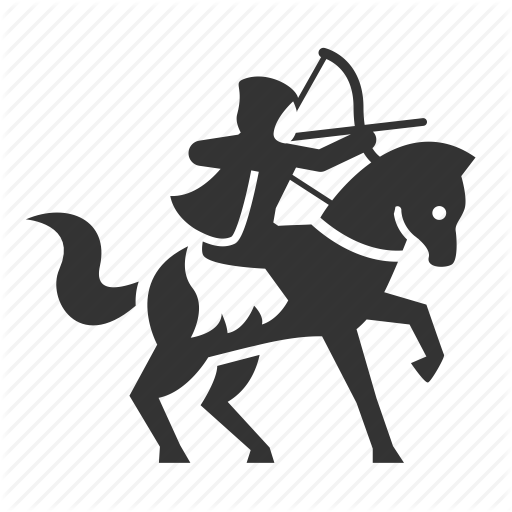
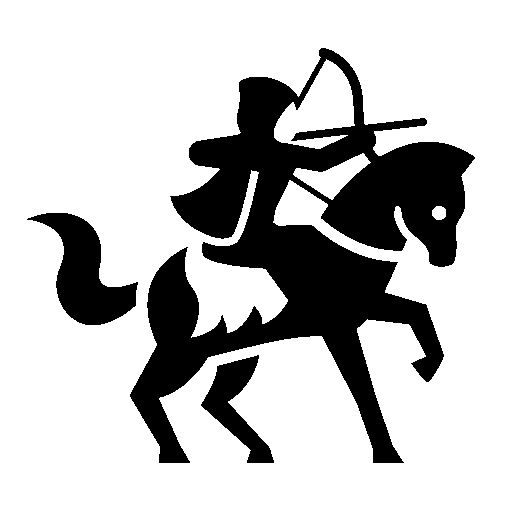
Versione 0.1.3 - Aggiunta Loading Dialog, Valutation Dialog, nuovi loghi, aggiornato ReadMe, Revisione stringhe Main.java

Changed region(s): [[0.0625, 0.0938, 0.9375, 0.9062]]

diff --git a/src/LoadingScreen.java b/src/LoadingScreen.java
@@ -2,23 +2,15 @@ import javax.swing.*;
 import java.awt.*;
 import java.awt.event.*;
 
-public class ValutationDialog extends JDialog {
+public class LoadingScreen extends JDialog {
     private JPanel contentPane;
     private JButton buttonOK;
     private JButton buttonCancel;
-    private JButton a1Button;
-    private JButton a5Button;
-    private JButton a3Button;
-    private JButton a4Button;
-    private JButton a8Button;
-    private JButton a9Button;
-    private JButton a2Button;
-    private JButton a7Button;
     public static final int WIDTH=300;
     public static final int HEIGHT=WIDTH/12*9;
     public static final int SCALE=3;
 
-    public ValutationDialog() {
+    public LoadingScreen() {
         setContentPane(contentPane);
         setModal(true);
         getRootPane().setDefaultButton(buttonOK);
@@ -59,8 +51,6 @@ public class ValutationDialog extends JDialog {
     private void onOK() {
 // add your code here
         dispose();
-        System.out.println("Show only on develop - exit");
-        System.exit(0);
     }
 
     private void onCancel() {
@@ -68,12 +58,10 @@ public class ValutationDialog extends JDialog {
         dispose();
     }
 
-
     public static void main(String[] args) {
-        ValutationDialog dialog = new ValutationDialog();
+        LoadingScreen dialog = new LoadingScreen();
         dialog.pack();
         dialog.setVisible(true);
         System.exit(0);
     }
-
 }

diff --git a/src/Main.java b/src/Main.java
@@ -38,19 +38,19 @@ public class Main {
         monitor1.pack();
         monitor1.setVisible(true);
 
+        // LANCIO DIALOG LOADING
+        LoadingScreen loading = new LoadingScreen();
+        loading.pack();
+        loading.setVisible(true);
+
         // Il Dialog Welcome lancia in cascata i dialog successivi in sequenza!
 
         // AVVIO DI UN GUI FORM
         //SampleForm myform = new SampleForm();
 
         // Avvio dell' applicazione
-        System.out.println(messages.getString("pause"));
-        Scanner alpha = new Scanner(System.in);
-        int start = alpha.nextInt();
-        if (start == 1) System.out.println(messages.getString("run"));
-        if (start < 1 ) System.out.println(messages.getString("notRun"));
 
-        // Dati dei PNG
+        // CREAZIONE DI RANDOM - NOMI PLAYER
 
         // Dati PLAYER
         Hero hero1 = new Hero(messages.getString("hero0"));

diff --git a/README.md b/README.md
@@ -18,4 +18,8 @@ Inizio sviluppo
 * Rimosso Logo (King.png)
 * Aggiunto Dialog Valutativo finale
 * Miglioramento spaziature del testo
-
+* Miglioramento WelcomeDialog
+* Introduzione miglioramento grafico Dialog
+* Inserimento LoadingDialog
+* Aggiunto logo King Black, White 200px, Loading.gif, loading, logo testuale
+* Revisione codice Main.java
